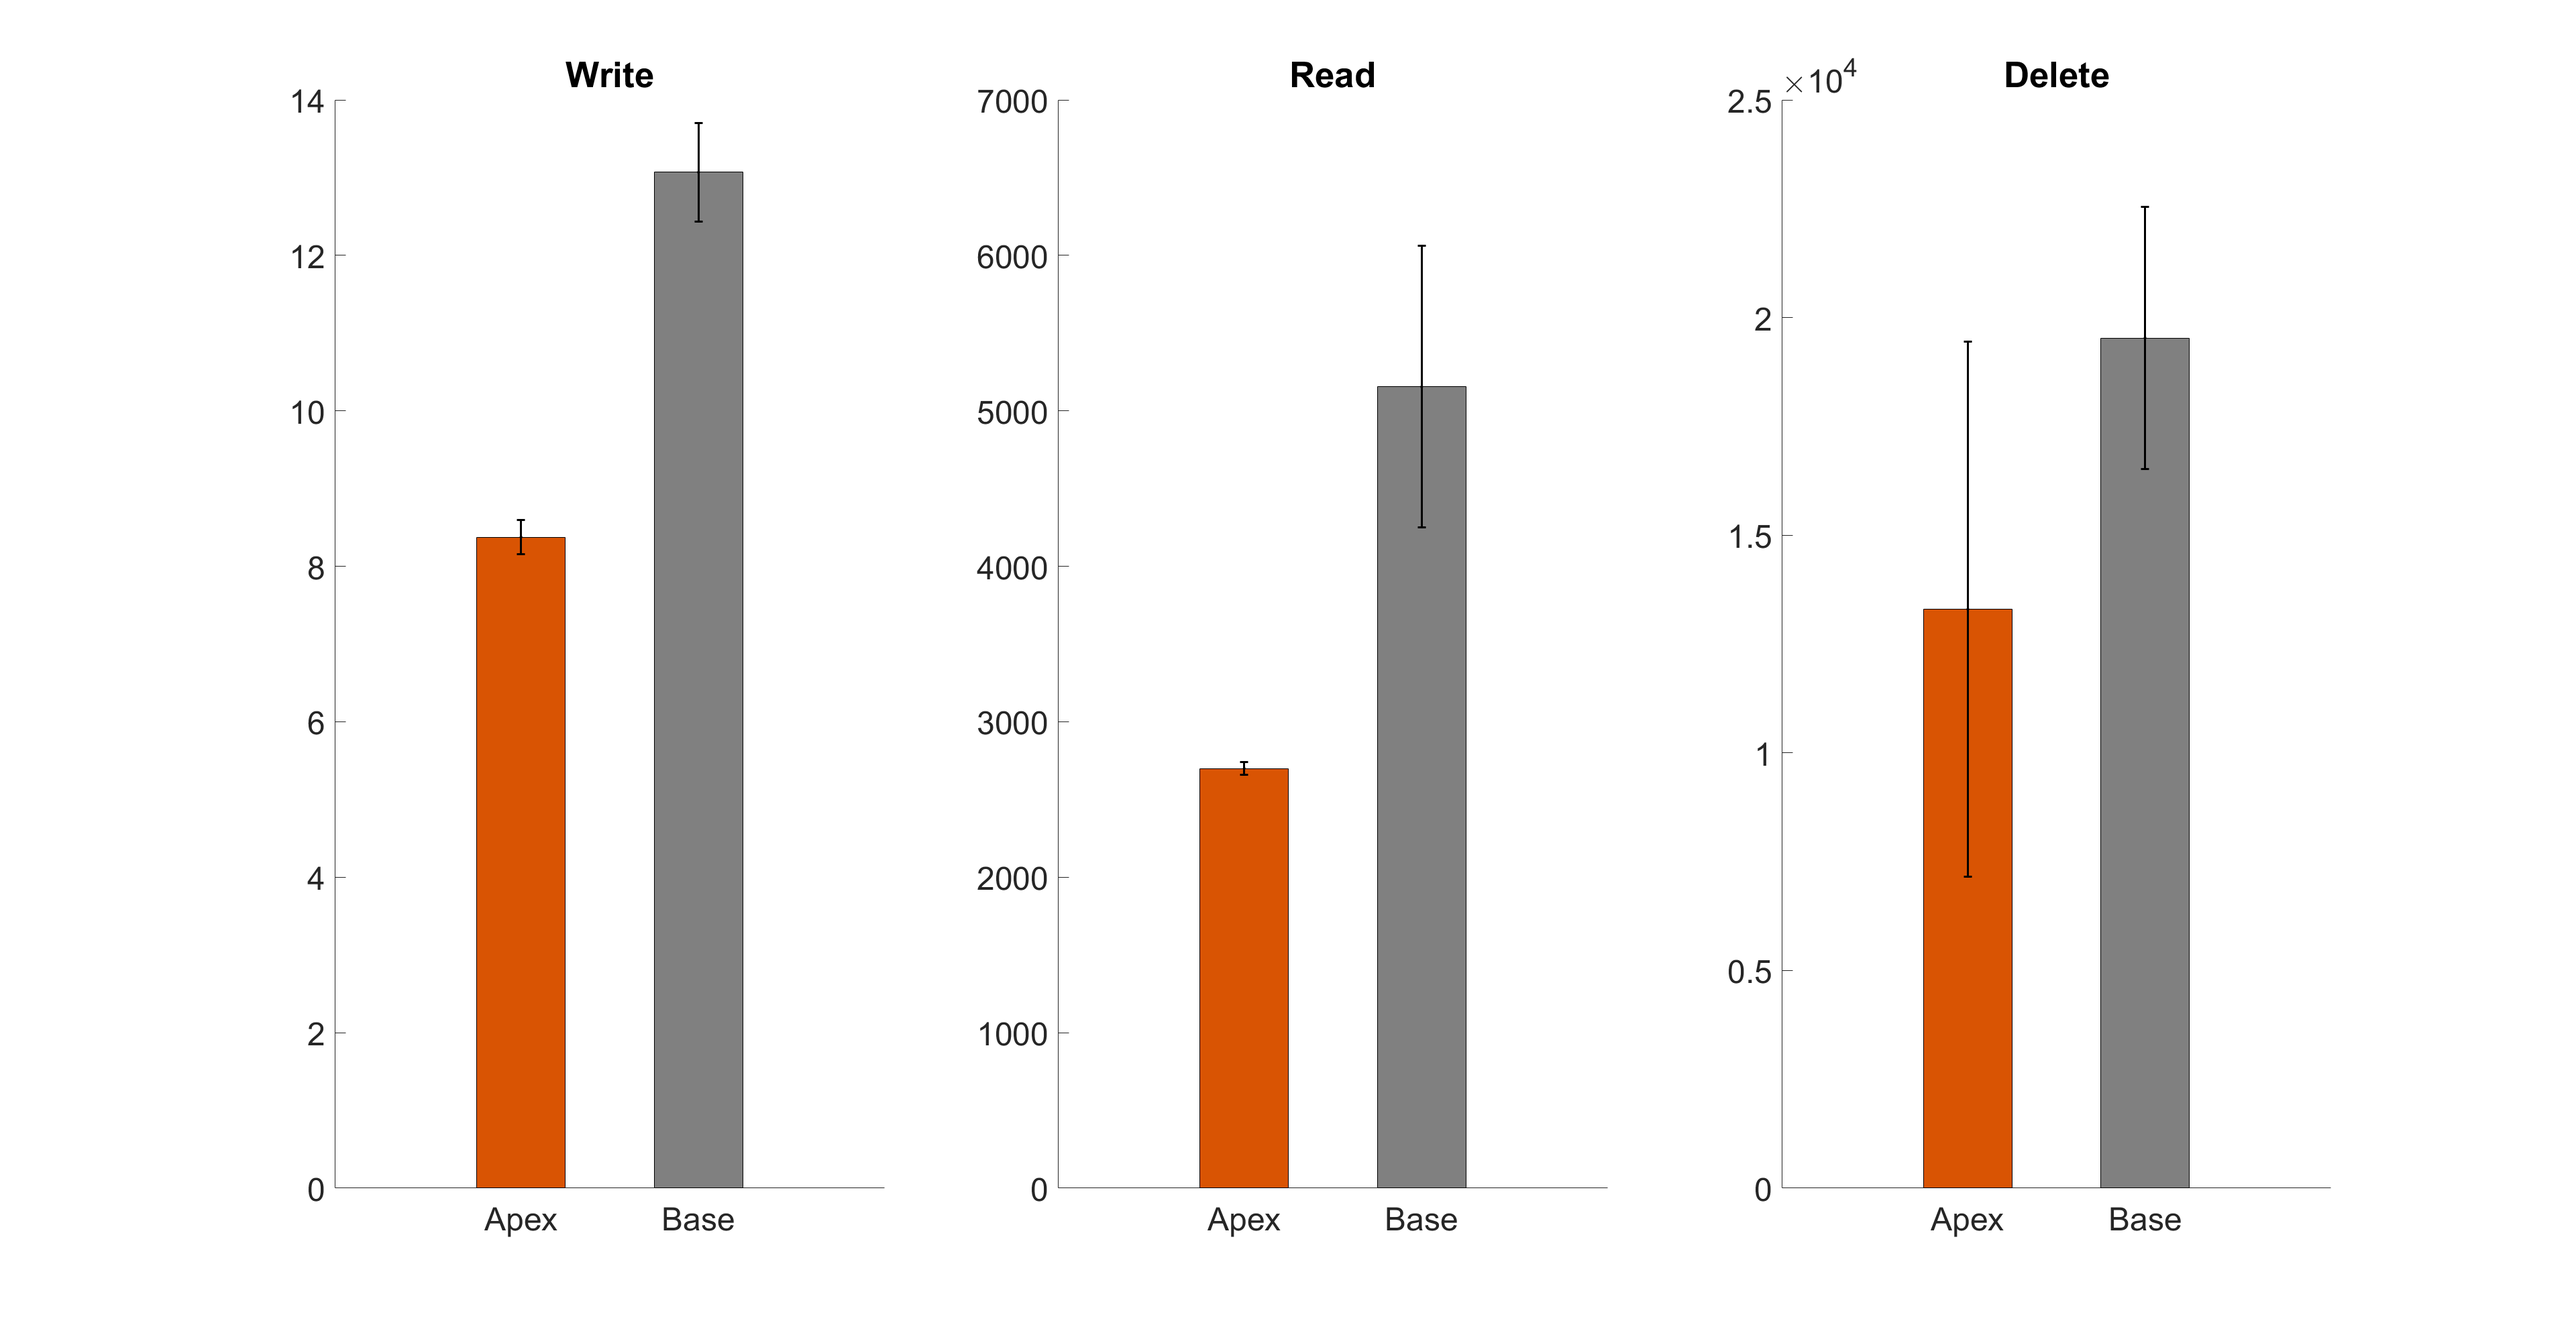
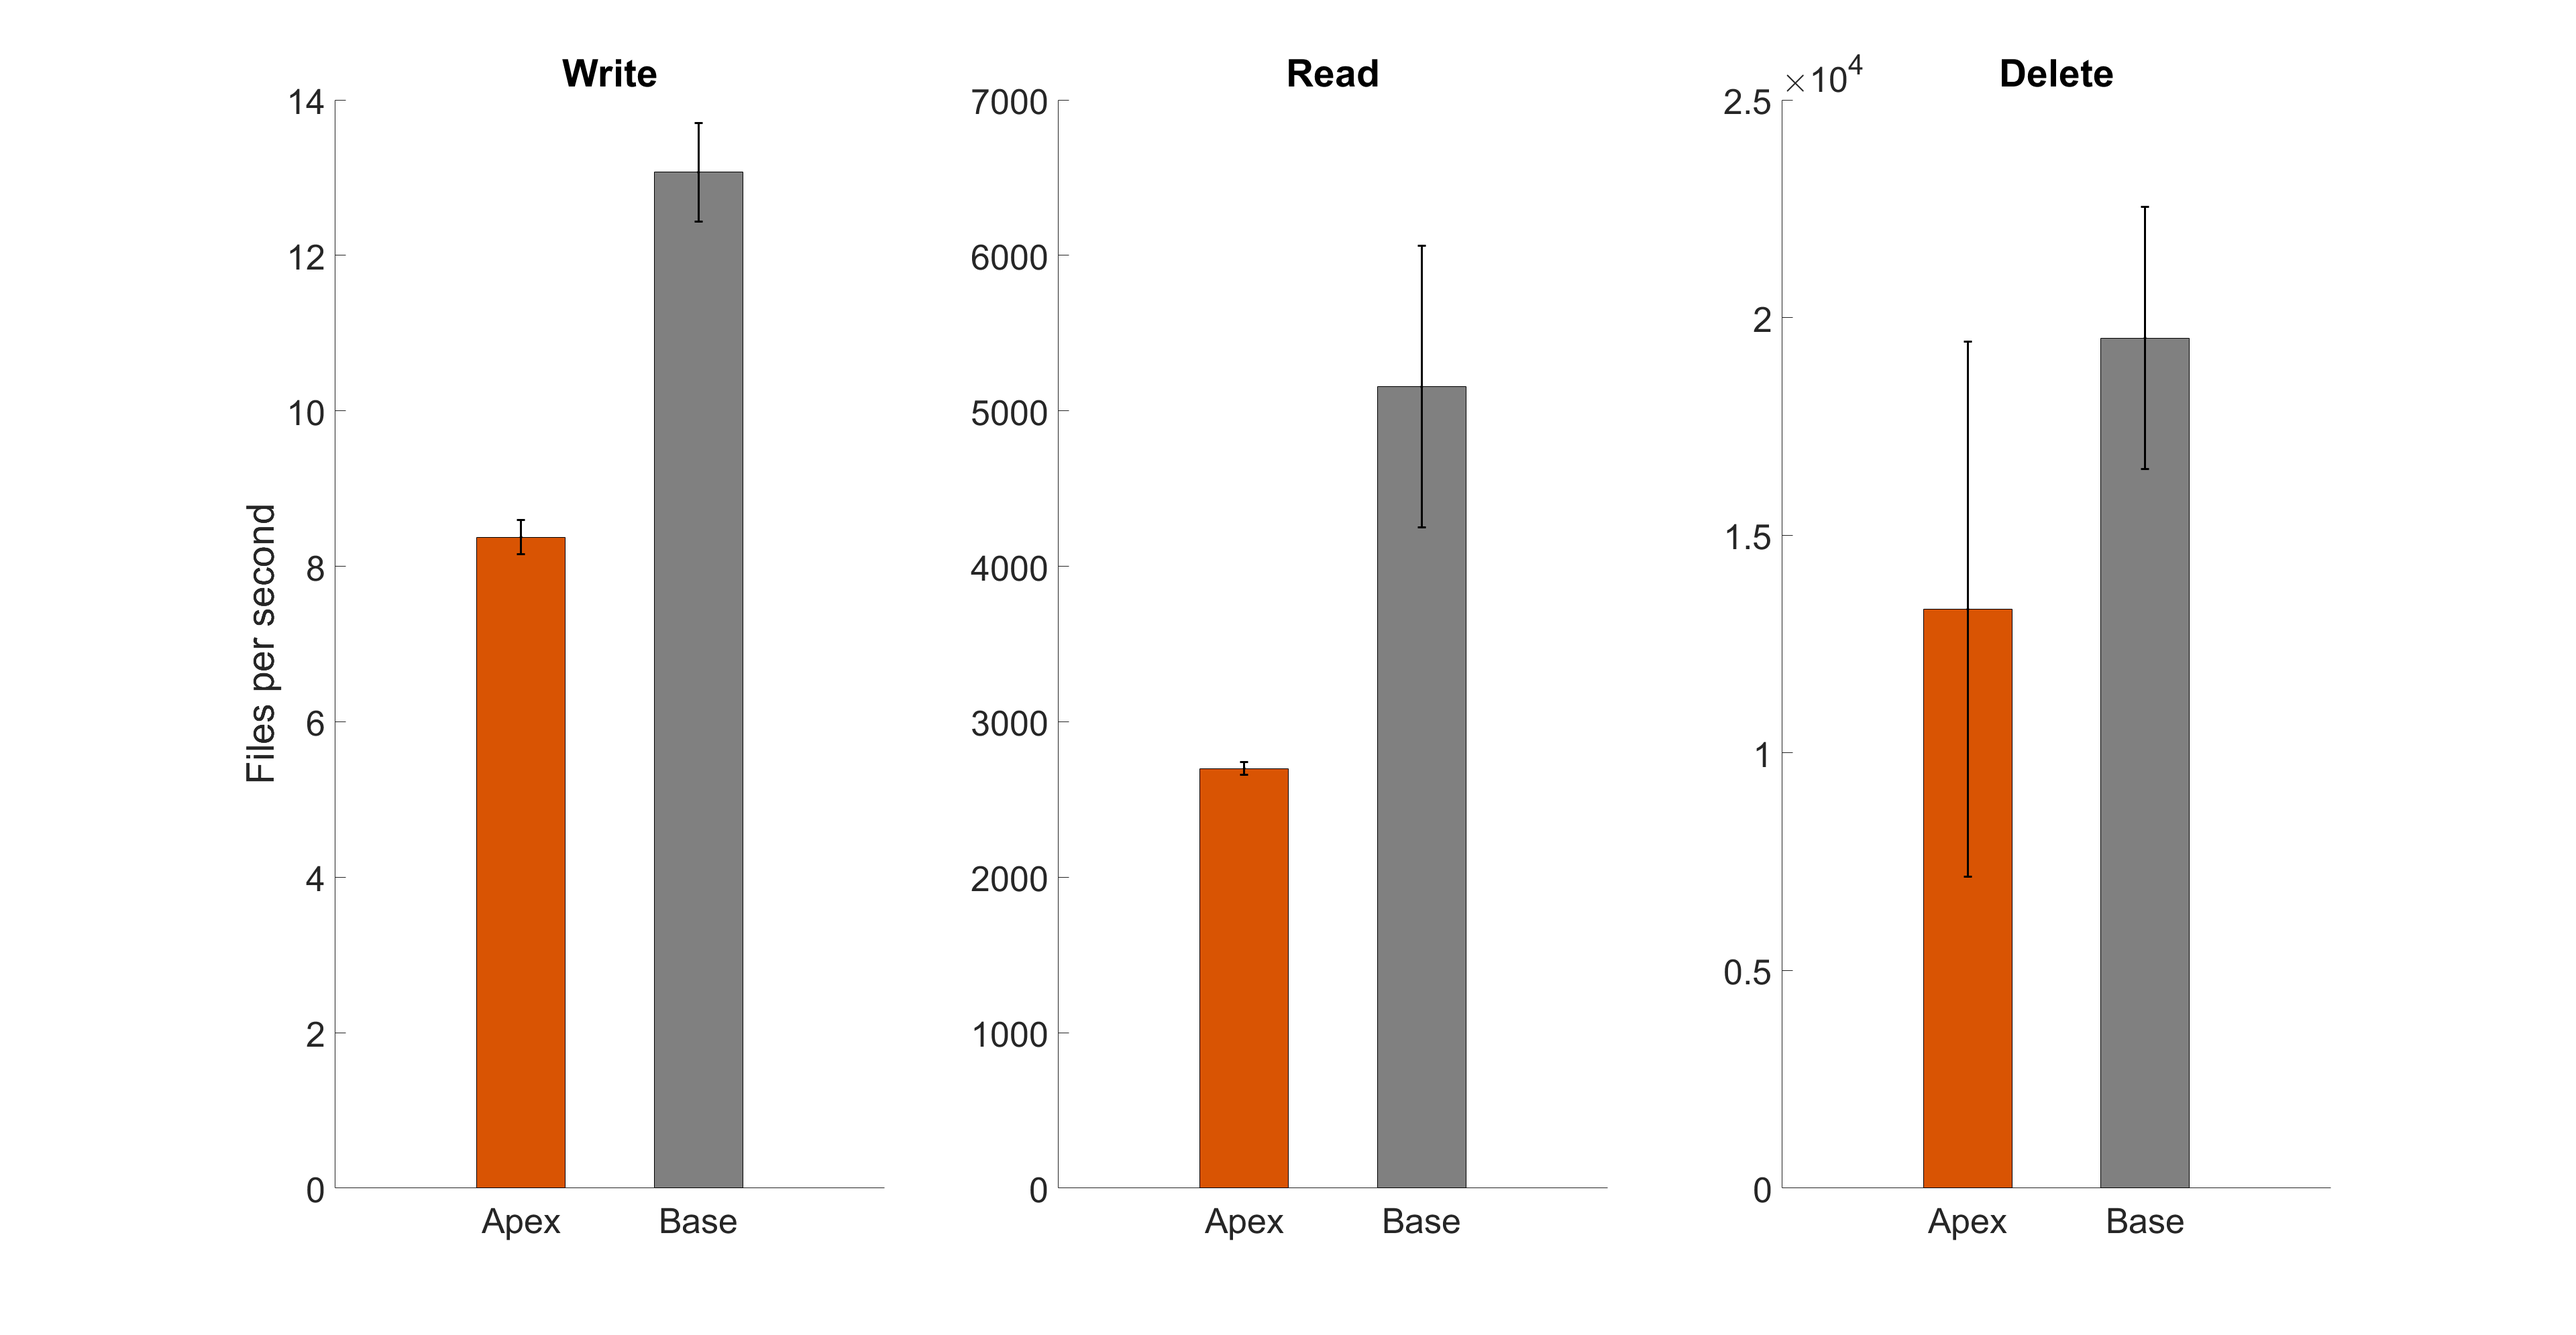
updated graphs

diff --git a/j_apex/results/results.m b/j_apex/results/results.m
@@ -87,7 +87,7 @@ for p=1:3
         s(i) = subplot(1, 3, i);
         ax = gca;
         ax.XTick = [1 2];
-        ax.FontSize = 24;
+        ax.FontSize = 26;
         hold on
         b1 = bar([0, stub_fps(p, i)], 0.5, 'FaceColor', [0.502 0.502 0.502]);
         b2 = bar([apex_fps(p, i), 0], 0.5, 'FaceColor', [0.85 0.33 0.01]);
@@ -95,9 +95,8 @@ for p=1:3
         set(gca, 'xticklabel', {'Apex', 'Base'});
         title(names(i))
     end
+    ylabel(s(1), 'Files per second');
 end
-
-ylabel(s(1), 'Files per second');
 
 
     
